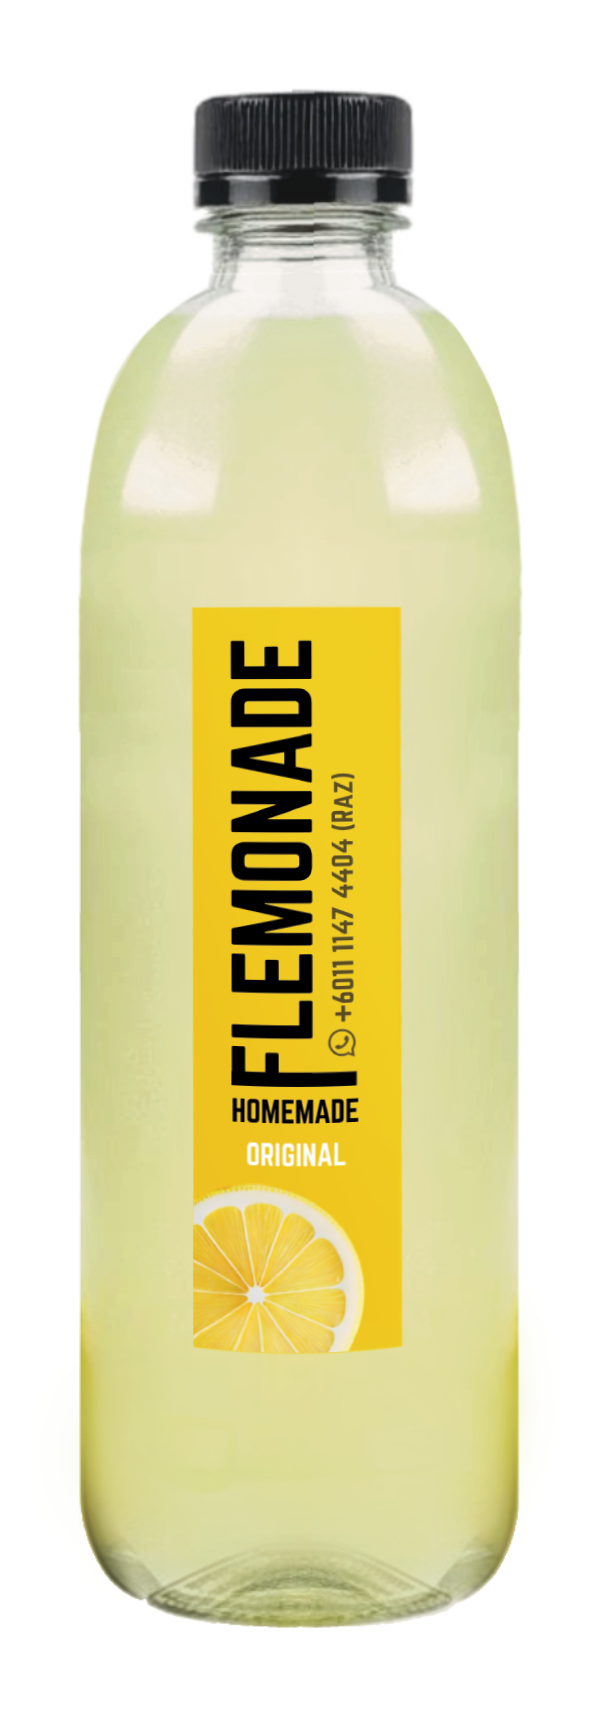
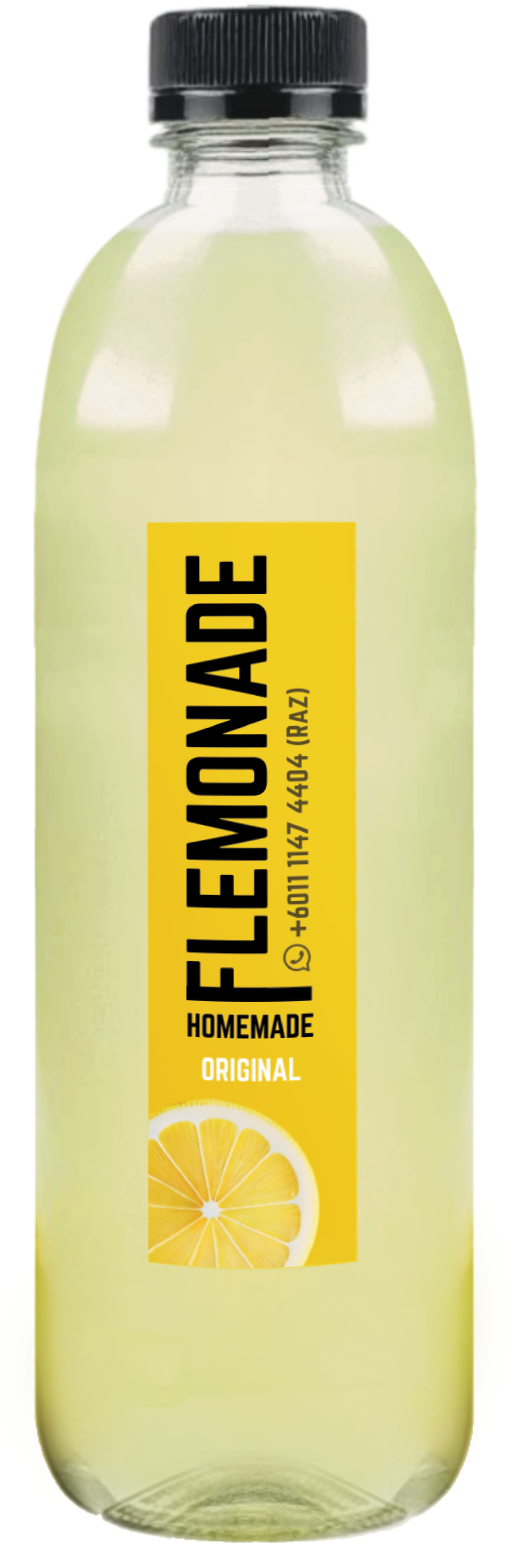
Flavours section

diff --git a/src/components/Flavours/index.tsx b/src/components/Flavours/index.tsx
@@ -5,7 +5,62 @@ const Flavours = () => {
     <section className="flavours main-section">
       <div className="container">
         <h2 className="main-section__title" data-content-id="flavour-section-title">EXPLORE FALVOURS</h2>
-        {/* Add your flavours content here */}
+        
+        <div className="flavour-wrapper">
+          <div className="row">
+            <div className="col-md-5">
+              <figure className="product-bottle">
+                <img src="./flemonade--original.png" alt="original" />
+              </figure>
+            </div>
+
+            <div className="col-md-7">
+              <div className="content-wrapper" data-content-id="flavour-desc">
+                <h2> ORIGINAL </h2>
+
+                <div className="flavour-body">
+                  <p>Our signature Original Lemonade captures the essence of pure refreshment. Made with freshly squeezed lemons, carefully balanced for the perfect harmony of tangy zest and gentle sweetness. Each sip offers a crisp, invigorating taste. The ultimate thirst-quenching experience for KL's tropical heat.</p>
+                </div>
+
+                <div className="flavour-variation">
+                  <h4>VARIATIONS</h4>
+                  <ul>
+                    <li>Plain</li>
+                    <li>Sparkling</li>
+                  </ul>
+                </div>
+              </div>
+            </div>
+          </div>
+        </div>
+
+        <div className="flavour-wrapper">
+          <div className="row">
+            <div className="col-md-5">
+              <figure className="product-bottle">
+                <img src="./flemonade--asam-boi.png" alt="original" />
+              </figure>
+            </div>
+
+            <div className="col-md-7">
+              <div className="content-wrapper" data-content-id="flavour-desc">
+                <h2> ASAM BOI </h2>
+
+                <div className="flavour-body">
+                  <p>Our signature Original Lemonade captures the essence of pure refreshment. Made with freshly squeezed lemons, carefully balanced for the perfect harmony of tangy zest and gentle sweetness. Each sip offers a crisp, invigorating taste. The ultimate thirst-quenching experience for KL's tropical heat.</p>
+                </div>
+
+                <div className="flavour-variation">
+                  <h4>VARIATIONS</h4>
+                  <ul>
+                    <li>Plain</li>
+                    <li>Sparkling</li>
+                  </ul>
+                </div>
+              </div>
+            </div>
+          </div>
+        </div>
       </div>
     </section>
   )

diff --git a/src/theme.scss b/src/theme.scss
@@ -2,6 +2,7 @@
 
 @import 'bootstrap/dist/css/bootstrap.min.css';
 @import './fonts.css';
+@import './custom.scss';
 
 /* Global Styles */
 html, body {
@@ -12,16 +13,23 @@ html, body {
   font-size: 18px;
 }
 
-.main-section {
-    .main-section__title {
-        margin-bottom: 2rem;
-        text-align: center;
-    }
+// Typeography
+h1, h2, h3, H4 {
+  font-family: 'norwester.otf';
+  text-transform: uppercase;
+  margin-bottom: 0.5em;
 }
 
-// Typeography
-h1, h2, h3 {
-  font-family: 'norwester.otf';
+h2 {
+  font-size: 2rem;
+}
+
+h3 {
+  font-size: 1.5rem;
+}
+
+h4 {
+  font-size: 1.25rem;
 }
 
 // Buttons
@@ -65,6 +73,26 @@ h1, h2, h3 {
       border: 1px solid $color-primary;
     }
   }
+}
+
+// Containers
+.main-section {
+  padding-top: 30px;
+  padding-bottom: 30px;
+  
+  &__title {
+    margin-bottom: 2rem;
+    text-align: center;
+  }
+}
+
+.content-wrapper {
+  position: relative;
+}
+
+// Image
+figure {
+  margin: 0;
 }
 
 // Others

diff --git a/src/components/Flavours/Flavours.scss b/src/components/Flavours/Flavours.scss
@@ -13,5 +13,41 @@
 
   .main-section__title {
     transform: translateY(-6rem);
+    cursor: pointer;
+  }
+
+  .flavour-wrapper {
+    margin-bottom: 5rem;
+  }
+
+  .flavour-body {
+    margin-bottom: 1.5rem;
+  }
+
+  .product-bottle {
+    display: flex;
+    align-items: center;
+    justify-content: center;
+    height: 21rem;
+    max-width: 400px;
+    margin-left: auto;
+
+    img {
+      height: 100%;
+      width: auto;
+    }
+  }
+
+  .product-bottle {
+    max-width: 200px;
+    margin-left: auto;
+  }
+
+  .flavour-variation {
+    max-height: 21.5rem;
+  }
+
+  .content-wrapper {
+    max-width: 430px;
   }
 } 

diff --git a/src/components/MainBanner/index.tsx b/src/components/MainBanner/index.tsx
@@ -11,7 +11,7 @@ const MainBanner = () => {
       </div>
 
       <figure className="banner-video">
-        <video src="./flemonade-banner.mp4" type="video/mp4" autoplay="true" muted="true" loop="true"></video>
+        <video src="./flemonade-banner.mp4" autoplay={true} muted={true} loop={true}></video>
       </figure>
 
       <img src="./bottle-silhouette-white.png" className="section-sep" />

diff --git a/src/pages/Theme/index.tsx b/src/pages/Theme/index.tsx
@@ -15,6 +15,9 @@ function Theme() {
 
           <h3>Subheading</h3>
 
+          <h4>Subheading</h4>
+
+
 
           <p className="tagline-description">Helping your brand stand out</p>
 

diff --git a/src/custom.scss b/src/custom.scss
@@ -1,0 +1,2 @@
+@use './variables' as *;
+
